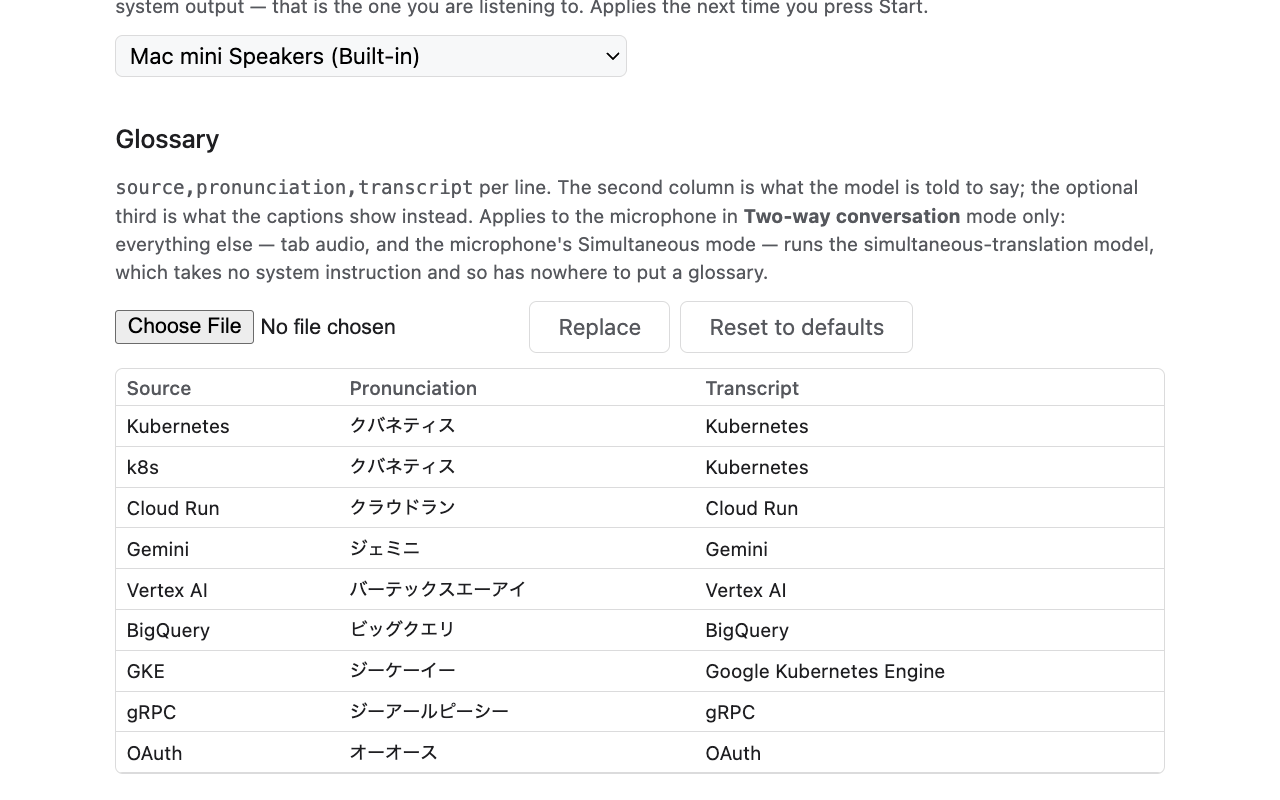
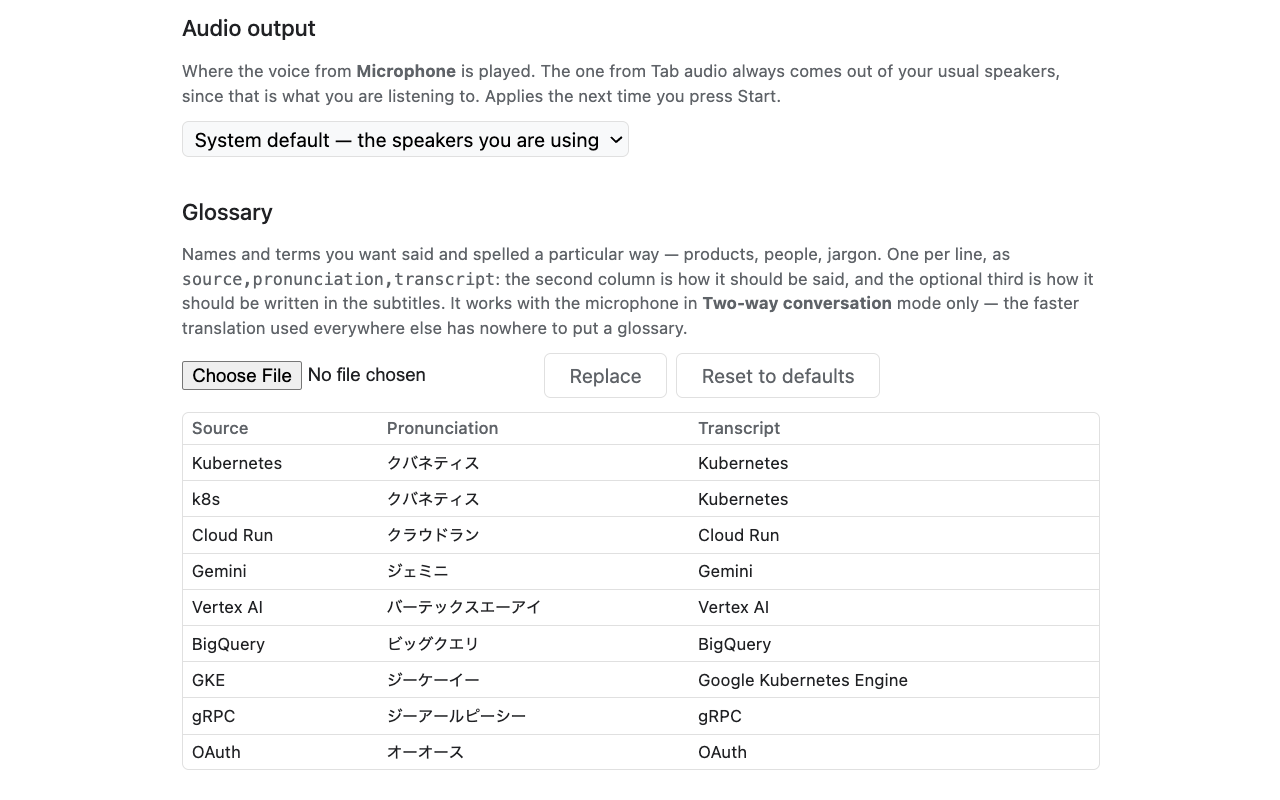
Take the three UI store screenshots with a script
The glossary, the panel and the key field are the Options page and the
side panel at 1280x800, and they were taken by hand. So they aged: the
set sitting in store/ still said "source auto-detected" and "Original
volume while speaking", and showed an Options page from before it grew
its two groups. A screenshot that has to be re-taken by hand is a
screenshot that is out of date.

tests/store-shots.mjs takes all three from the same throwaway profile
tests/onboarding.mjs uses, and needs no key: the one it shows is the
obvious fake AIzaSyA-EXAMPLE-KEY-not-a-real-one-0000, seeded into a
profile that is deleted on the way out.

The composition is tests/store-frame.html, a 1280x800 extension page
with one iframe on it. A browser window is never 1280x800, and the pages
being shot are chrome-extension:// URLs that only a page at the same
origin can size, scroll, or ask whether they have finished localizing.
Each shot lays its page out in CSS pixels and scales it with zoom, the
product being the frame. The panel is framed at 460 rather than the 400
a side panel opens at: at 400 the rewritten sentences wrap enough to
push Start off the bottom of the card.

The guide reuses two of the three, and Jekyll cannot reach outside
docs/, so the script copies those into docs/assets/ as it writes them
rather than leaving assets.test.js to notice the drift afterwards.

1 and 2 stay manual — a live session with a real video playing and a
real side panel open, neither of which a harness can supply.

Changed region(s): [[0.0938, 0.2188, 0.9062, 0.9688], [0.0938, 0.0, 0.8125, 0.1875]]

diff --git a/tests/store-frame.html b/tests/store-frame.html
@@ -1,0 +1,53 @@
+<!DOCTYPE html>
+<html>
+  <head>
+    <meta charset="UTF-8" />
+    <title>Interpretab — store frame</title>
+    <!--
+      A 1280×800 stage for `store-shots.mjs`, and nothing else. It exists only
+      so the extension's own pages can be photographed at the size the store
+      demands: a browser window is never 1280×800, and a screenshot of one is
+      neither the right shape nor legible once the store scales it down.
+
+      Being an extension page is the point. The pages it frames are
+      `chrome-extension://<id>/…`, so a host anywhere else could not size them,
+      scroll them, or read whether they had finished localizing themselves.
+
+      Everything variable — which page, how big, how far zoomed, card or
+      full-bleed — is set from the driver rather than from a query string, so
+      this file has no script and needs no CSP exception for one.
+    -->
+    <style>
+      html,
+      body {
+        margin: 0;
+        width: 1280px;
+        height: 800px;
+        overflow: hidden;
+        background: #fff;
+      }
+      iframe {
+        display: block;
+        border: 0;
+        background: #fff;
+      }
+      /* Shot 4 is the panel alone, and a white panel on a white page has no
+         edge. The gradient is neutral and cool enough to read as "not part of
+         the product", and the shadow is what makes the 620px column look like
+         a panel rather than a crop. */
+      body.card {
+        display: grid;
+        place-items: center;
+        background: radial-gradient(circle at 88% 8%, #f5f6f9, rgba(245, 246, 249, 0) 62%),
+          radial-gradient(circle at 4% 96%, #f1f2f5, rgba(241, 242, 245, 0) 58%), #dedfe6;
+      }
+      body.card iframe {
+        border-radius: 14px;
+        box-shadow: 0 18px 50px rgba(31, 41, 66, 0.18), 0 2px 6px rgba(31, 41, 66, 0.08);
+      }
+    </style>
+  </head>
+  <body>
+    <iframe id="stage"></iframe>
+  </body>
+</html>

diff --git a/README.md b/README.md
@@ -1182,6 +1182,34 @@ open is the likely case, and left `optionsFocus` in session storage to ambush so
 The page now takes the request as a `chrome.storage.session` change as well as on load. Step 6 of
 the walkthrough is that bug.
 
+**`tests/store-shots.mjs` — the store screenshots that are pure extension UI.**
+
+```bash
+node tests/store-shots.mjs            # headless, ~10 seconds
+```
+
+Three of the five — the glossary, the panel, the key field — are the Options page and the side
+panel photographed at 1280×800, and they used to be taken by hand. Which meant they aged: the set
+that was sitting in `store/` still said "source auto-detected" and "Original volume while
+speaking", and showed an Options page from before it grew its two groups. A screenshot that has to
+be re-taken by hand is a screenshot that is out of date, so this takes all three from the same
+throwaway profile the onboarding walk uses. It needs no key either — the one it shows is the
+obvious fake `AIzaSyA-EXAMPLE-KEY-not-a-real-one-0000`, written into a profile that is deleted on
+the way out.
+
+The composition is `tests/store-frame.html`, a 1280×800 extension page with one iframe on it. A
+browser window is never 1280×800, and the pages being shot are `chrome-extension://` URLs that
+only a page at the same origin can size, scroll, or ask whether they have finished localizing
+themselves. Each shot lays its page out at some width and height in CSS pixels and scales it up
+with `zoom`, the product being the frame: the Options page at 916×574 zoomed 1.4, which is what
+makes 14px body text legible once the store scales the image down, and the panel at 460×540 zoomed
+1.43 on a gradient, wider than the 400px a side panel actually opens at because at 400 the
+rewritten sentences wrap enough to push Start off the bottom of the card.
+
+The other two are a live session with a real video playing and a real side panel open. Nothing
+inside a page can photograph browser UI and no harness can supply the video, so those stay manual —
+as do the two `spare-*.png`, which are from the same sitting and were not re-taken.
+
 **Two tabs, by hand.** One thing `npm test` cannot reach: two live side panels. The suite checks
 the invariants in the source — Start refuses before it captures, every control in the markup is
 in the panel's disabled list, the mark and the subtitles read the one recorded tab — but the

diff --git a/store/listing.md b/store/listing.md
@@ -146,11 +146,18 @@ which reads as more window rather than as a border. 2 ended up being the microph
 alone rather than both directions at once: the panel's `HEARD (MIC)` / `TRANSLATION (MIC)` pair
 tells the two-way story more legibly than two subtitle lines stacked on one page.
 
-The three that are pure extension UI were taken by loading the page into a 1280×800 iframe on an
-extension page and setting `zoom` on it: the window is whatever size it is, and a screenshot of it
-is neither the right shape nor legible once the store scales it down. The key in 5 is a fake
-written into the field, never saved — `saveKey` runs on `change`, which a script setting `.value`
-does not fire. `tests/assets.test.js` checks the dimensions of everything in here.
+The three that are pure extension UI — 3, 4 and 5 — are taken by `node tests/store-shots.mjs`,
+which installs the unpacked extension into a throwaway Chrome profile and photographs the pages in
+a 1280×800 iframe on an extension page with `zoom` set on it: the window is whatever size it is,
+and a screenshot of it is neither the right shape nor legible once the store scales it down. They
+were taken by hand until the plain-language rewrite aged all three at once, which is the argument
+for the script — re-take them after any wording change rather than noticing later that the store
+is showing sentences the extension no longer says. The key in 5 is the obvious fake
+`AIzaSyA-EXAMPLE-KEY-not-a-real-one-0000`, seeded into a profile that is deleted on the way out.
+`tests/assets.test.js` checks the dimensions of everything in here.
+
+The two `spare-*.png` are from the original manual sitting and have not been re-taken, so they show
+the pre-rewrite wording. Neither is uploaded; promoting one into the set means shooting it again.
 
 ## Promotional tile — 440×280
 
